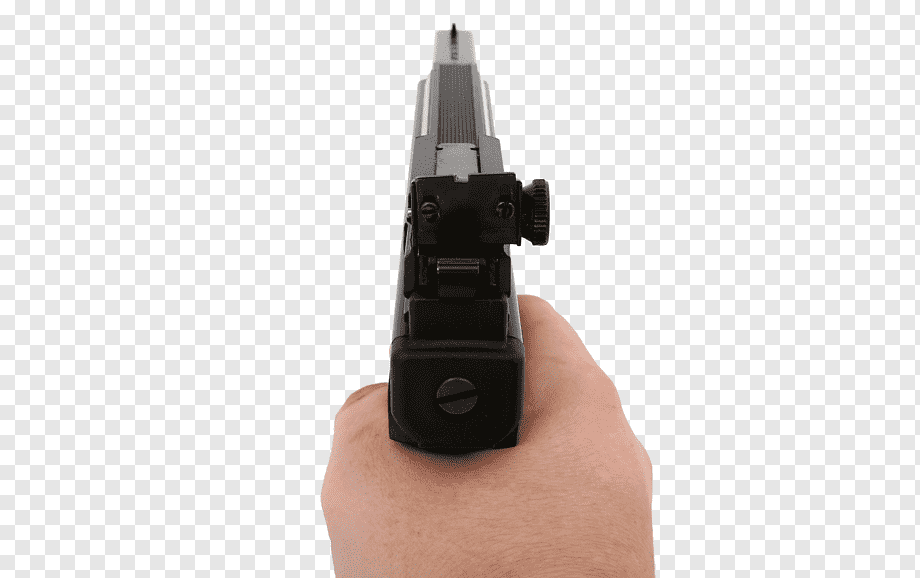
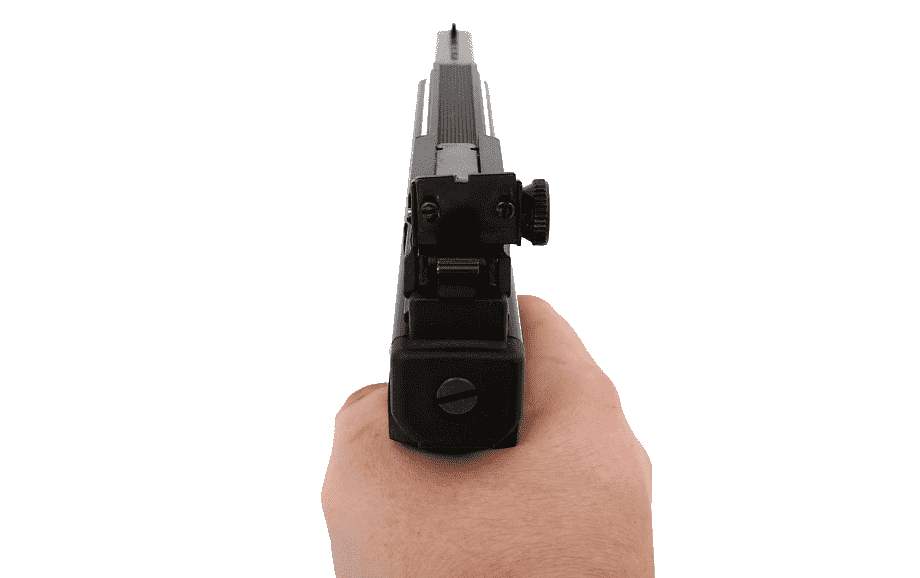
add gun

diff --git a/src/renderer_widget.cpp b/src/renderer_widget.cpp
@@ -16,6 +16,9 @@ Renderer_Widget::Renderer_Widget(Map_Model* map_model)
     // note: texture loading
     std::string gun_tex_path(projectDir() + "assets/GunPov.png");
     gun_tex = QImage(gun_tex_path.c_str());
+    if (gun_tex.isNull()) {
+        throw std::runtime_error("failed to load gun_tex_path: " + gun_tex_path);
+    }
 
     // note: input
     clearInputState();
@@ -125,7 +128,8 @@ void Renderer_Widget::paintEvent(QPaintEvent* event) {
     QRect target_rec(0, 0, this->width(), this->height());
     QPainter painter(this);
 
-    painter.drawImage(target_rec, framebuffer, QRect(0, 0, framebuffer.width(), framebuffer.height()));
+    painter.drawImage(target_rec, framebuffer);
+    drawGun(painter);
 }
 
 bool Renderer_Widget::isPWalkable(u32 x, u32 y) {
@@ -213,7 +217,7 @@ void Renderer_Widget::updateOrientation() {
 }
 
 void Renderer_Widget::updateAndRender(r32 dt) {
-    // LOG("dt(s): " << dt);
+    LOG("dt(s): " << dt);
 
     if (mode == Mode::Playing) {
         updateOrientation();
@@ -223,7 +227,6 @@ void Renderer_Widget::updateAndRender(r32 dt) {
     drawWall();
     drawMinimap();
     drawCrosshair();
-    drawGun();
     this->update(); // calls paintEvent
 }
 
@@ -565,34 +568,41 @@ void Renderer_Widget::drawCrosshair() {
     );
 }
 
-void Renderer_Widget::drawGun() {
+void Renderer_Widget::drawGun(QPainter& painter) {
+    v2<i32> dims(width(), height());
+    v2<i32> gun_dims(dims.x / 4, dims.y / 3);
+    v2<i32> gun_offset((dims.x - gun_dims.x) / 2, dims.y - gun_dims.y);
+    painter.drawImage(
+        QRect(gun_offset.x, gun_offset.y, gun_dims.x, gun_dims.y),
+        gun_tex
+    );
 }
 
-void Renderer_Widget::drawRectangle(v2<i32> topLeft, v2<i32> botRight, QRgb color) {
+void Renderer_Widget::drawRectangle(v2<i32> top_left, v2<i32> bot_right, QRgb color) {
     QRgb* framebuffer_raw = reinterpret_cast<QRgb*>(framebuffer.bits());
     v2<i32> framebuffer_dims(framebuffer.width(), framebuffer.height());
 
     assert(framebuffer_dims.x > 0 && framebuffer_dims.y > 0);
-    assert(botRight.x >= topLeft.x);
-    assert(botRight.y >= topLeft.y);
+    assert(bot_right.x >= top_left.x);
+    assert(bot_right.y >= top_left.y);
 
-    topLeft.x = clamp_value(0, topLeft.x, framebuffer_dims.x - 1);
-    topLeft.y = clamp_value(0, topLeft.y, framebuffer_dims.y - 1);
-    botRight.x = clamp_value(0, botRight.x, framebuffer_dims.x - 1);
-    botRight.y = clamp_value(0, botRight.y, framebuffer_dims.y - 1);
+    top_left.x = clamp_value(0, top_left.x, framebuffer_dims.x - 1);
+    top_left.y = clamp_value(0, top_left.y, framebuffer_dims.y - 1);
+    bot_right.x = clamp_value(0, bot_right.x, framebuffer_dims.x - 1);
+    bot_right.y = clamp_value(0, bot_right.y, framebuffer_dims.y - 1);
 
     // todo: optimize
     u32 framebuffer_stride = framebuffer_dims.x;
-    framebuffer_raw += topLeft.y * framebuffer_stride + topLeft.x;
-    while (topLeft.y <= botRight.y) {
+    framebuffer_raw += top_left.y * framebuffer_stride + top_left.x;
+    while (top_left.y <= bot_right.y) {
         QRgb* out = framebuffer_raw;
-        i32 curTopLeft = topLeft.x;
-        while (curTopLeft <= botRight.x) {
+        i32 cur_top_left_x = top_left.x;
+        while (cur_top_left_x <= bot_right.x) {
             *out = color;
             ++out;
-            ++curTopLeft;
+            ++cur_top_left_x;
         }
         framebuffer_raw += framebuffer_stride;
-        ++topLeft.y;
+        ++top_left.y;
     }
 }

diff --git a/src/renderer_widget.h b/src/renderer_widget.h
@@ -5,6 +5,7 @@
 #include <QMenu>
 #include <QCursor>
 #include <QImage>
+#include <QPainter>
 
 #include "defs.h"
 #include "camera.h"
@@ -63,11 +64,11 @@ private:
     void drawWall();
     void drawMinimap();
     void drawCrosshair();
-    void drawGun();
+    void drawGun(QPainter& painter);
 
     void setMode(Mode mode);
     void clearInputState();
-    void drawRectangle(v2<i32> topLeft, v2<i32> botRight, QRgb color);
+    void drawRectangle(v2<i32> top_left, v2<i32> bot_right, QRgb color);
 };
 
 #endif // RENDERER_WIDGET_H
